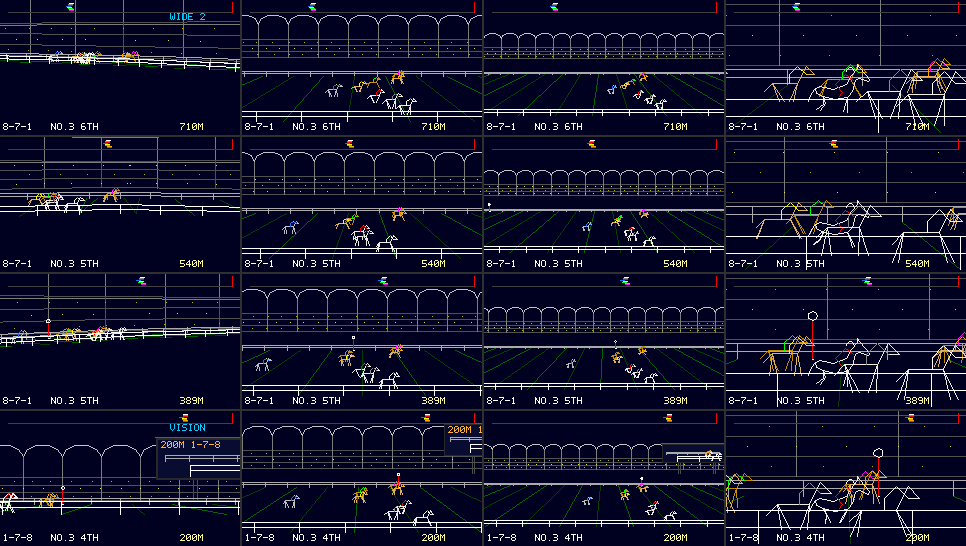
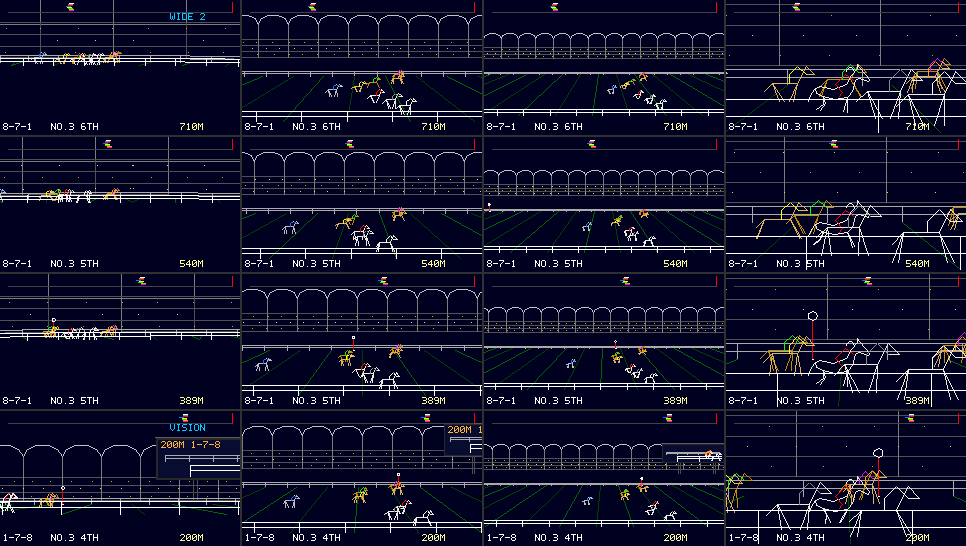
perf(derby): q24 stage 4b/c/d/e - the oval's panning series cheaper, measured, documented
The oval's bend from a panning unit ran at 8.9 fps (e574c73). In the JS,
by the device's own figures (sin 18.7 us, pose 178 us, a ser() body
~1.2-1.5 ms):
- pose() reads its section's start (x, z, tangent) from the table: no
  trig on a straight, two on the bend (178 -> 135 us); the straight
  course returns [g, w, 1, 0] at once (26 us).
- ser() reuses the shared chord end's pose and inlines pj; pan() puts
  each chord end into the unit's frame once a frame (VE) and ou() drops,
  by arithmetic only, the chords a series cannot see before any pose:
  ser() bodies on the bend 52 -> 21.5 a frame, poses 144 -> 43 (host).
- On the oval WIDE 2 stands near the bend's centre (CAMS rows' 6th
  element, about 110 m in from the rail): its f grows to ~700 and fewer
  chords are in view. The straight's units are unchanged.
- A straight skips VE and ou(). VE/VC are dropped after the frame.

Device MID (diag, one run each, d587bec -> this): panning WIDE on the
straight 25.6/25.7 -> 24.8/24.9 fps, on the oval's bend 15.1 fps, its
home-straight unit 19.1; HEAVY 24.7/24.8 -> 24.0, bend 15.0-15.1. gu max
134,392 -> 138,560 B (MID), 138,676 (HEAVY); mn 29,060, gate turn 31,836;
eval margin 27,930 -> 22,788 / 22,710 B. No LOADSTALL or failures;
playthrough, R replay (straight), demo, Back/LOADED, KEYTEST; smoke 20,
stress, resume, MEGADEMO, LCD CATCH, BIG WAVE all pass. Host: ASan and
m32 under the seeds' mix, --course straight (d587bec line for line,
[…]

Changed region(s): [[0.0, 0.2491, 0.2484, 0.4048], [0.0, 0.5293, 0.2484, 0.6538], [0.0, 0.0311, 0.2484, 0.1245]]

diff --git a/apps/derby/derby_view.js b/apps/derby/derby_view.js
@@ -84,25 +84,26 @@ try {
 // The screen (README "Turf vision"): centre x, depth, half width, bottom
 // and top height (m), a 4:1 face.
 const VS = [840, 34, 20, 6, 16], FN = [3, 4, 6], LO = [3, -25, -30, 1, 1, 4, -30, -2, -26, 12, 12, 8];
-// The course: [start x, z, heading], then sections [m, curvature 1/m] along
-// the inner rail. pose(g, w): the point g m along it, w m out from the side
-// cameras' line (the side view's depth: inner rail 11, screen 34, stands
-// 40), as [x, z, tangent]. The straight gives [g, w, 1, 0] exactly. The oval
-// (README "楕円"): the back straight, a 120 m bend to the right, the home
-// straight on the straight's line from 650 m. CH: chord ends (ser()).
-const OB = 650 - 120 * PI, SC = [[0, 0, 0], [2e3, 0]], OC = [[650 + OB, -218, PI], [OB, 0], [120 * PI, -1 / 120], [2e3, 0]];
-let CRS = SC, CH, VC;
+// The course: its sections [m along the inner rail, curvature 1/m, start x,
+// z, tangent x, z (, heading on a bend)]. pose(g, w): the point g m along it,
+// w m out from the side cameras' line (the side view's depth: inner rail 11,
+// screen 34, stands 40), as [x, z, tangent]; a bend's centre is 1/curvature
+// in from the rail. The straight gives [g, w, 1, 0] exactly. The oval (README
+// "楕円"): the back straight, a 120 m bend to the right, the home straight on
+// the straight's line from 650 m. CH: chord ends (ser()).
+const OB = 650 - 120 * PI, SC = [], OC = [[OB, 0, 650 + OB, -218, -1, 0], [120 * PI, -1 / 120, 650, -218, -1, 0, PI], [2e3, 0, 650, 0, 1, 0]];
+let CRS = SC, CH, VC, VE;
 function pose(g, w) {
-  let x = CRS[0][0], z = CRS[0][1], a = CRS[0][2];
-  for (let i = 1; i < CRS.length; ++i) {
-    const e = CRS[i], s = mn(g, e[0]), b = a + e[1] * s, r = 1 / e[1] + DNR;
-    if (e[1]) x += (sin(b) - sin(a)) * r, z -= (M.cos(b) - M.cos(a)) * r;
-    else x += s * M.cos(a), z += s * sin(a);
-    a = b; g -= s;
-    if (g <= 0) break;
+  if (CRS === SC) return [g, w, 1, 0];
+  let i = 0;
+  while (i < 2 && g > CRS[i][0]) g -= CRS[i++][0];
+  const e = CRS[i];
+  let x = e[2], z = e[3], c = e[4], d = e[5];
+  if (e[1]) {
+    const r = 1 / e[1] + DNR, C = M.cos(e[6] + e[1] * g), S = sin(e[6] + e[1] * g);
+    x += (S - d) * r; z -= (C - c) * r; c = C; d = S; g = 0;
   }
-  x += g * M.cos(a); z += g * sin(a);
-  return [x - w * sin(a), z + w * M.cos(a), M.cos(a), sin(a)];
+  return [x + g * c - w * d, z + g * d + w * c, c, d];
 }
 // ---- Cameras, a row a unit: [f, height, horizon y, lead, smoothed, lo,
 // hi]. A side unit looks along the course's normal from cx: the leader
@@ -112,9 +113,10 @@ function pose(g, w) {
 // screen); HEAD ON is a still (paint).
 const CAMS = [[100, 9.7, 33, 880, 1, -1e9, 1e9], 0, [58, 15, 36, 880, 1, -1e9, 1e9], [170, 7, 22, 640, 0, -1e9, D - 6],
   [300, 4, 30, 880, 0, D, D], [130, 1.6, 84, 880, 1, VS[0] - 30, VS[0] + 30], 0,
-  [200, 6, 28, 100, -14], [200, 6, 28, 460, -14], [200, 6, 28, 820, -14]],
+  [200, 6, 28, 100, -14, -14], [200, 6, 28, 460, -14, -100], [200, 6, 28, 820, -14, -14]],
   NAMES = ['WIDE', 'CLOSE', 'FIELD', 'FINISH', '', 'VISION', 'HEAD ON', 'WIDE 1', 'WIDE 2', 'WIDE 3'];
-// Panning units (rows 7..9, [least f, height, horizon y, g, w]; README):
+// Panning units (rows 7..9, [least f, height, horizon y, g, w, w on the
+// oval: WIDE 2 near its bend's centre]; README):
 // turned to the leader, f keeping it PAN[1] px long, at most PAN[2]. WIDE
 // takes the nearest when it is over PAN[0] m from the leader, or the leader
 // is on the oval's bend (the side view does not bend: README). Height 6 and
@@ -126,7 +128,7 @@ let pc = null, vq = null, Lo, Hi;
 function wide(g) {
   let m = 0, e = 1e9;
   for (let i = 7; i < 10; ++i) {
-    const q = pose(CAMS[i][3], CAMS[i][4]), a = pose(g, (DNR + DFR) / 2), x = a[0] - q[0], z = a[1] - q[1];
+    const q = pose(CAMS[i][3], CAMS[i][CRS === OC ? 5 : 4]), a = pose(g, (DNR + DFR) / 2), x = a[0] - q[0], z = a[1] - q[1];
     if (x * x + z * z < e) e = x * x + z * z, m = i;
   }
   return e > PAN[0] * PAN[0] || CRS === OC && g > OB && g < 650 ? m : 0;
@@ -141,7 +143,7 @@ function shot(m, xs, l, cut) {
   }
   const c = CAMS[m];
   if (m > 6) {
-    const q = pose(c[3], c[4]), a = pose(mx.apply(null, xs), (DNR + DFR) / 2), x = a[0] - q[0], z = a[1] - q[1], e = M.sqrt(x * x + z * z);
+    const q = pose(c[3], c[CRS === OC ? 5 : 4]), a = pose(mx.apply(null, xs), (DNR + DFR) / 2), x = a[0] - q[0], z = a[1] - q[1], e = M.sqrt(x * x + z * z);
     pc = [q[0], q[1], x / e, z / e, mn(PAN[2], mx(c[0], PAN[1] * e / 2.4)), e];
     return [pc[4], c[1], c[2]];
   }

diff --git a/apps/derby/derby_pan.js b/apps/derby/derby_pan.js
@@ -22,10 +22,13 @@ function lim(c0, c1) { if (c1 > 0) Lo = mx(Lo, -c0 / c1); else if (c1 < 0) Hi = 
 // the chord's normal. The stands (b < 0): their tiers chord by chord, hl's
 // lines across the chord's view from the ground up, 2.4 m apart.
 function ser(n, w, s, g0, L, zf, a, b) {
-  ch: for (let j = 0; j < VC.length; j += 2) {
-    const ga = g0 + rnd((VC[j] - g0) / s) * s, gb = g0 + rnd((VC[j + 1] - g0) / s) * s, A = pose(ga, w), B = pose(gb, w),
-      dx = (B[0] - A[0]) / (gb - ga), dz = (B[1] - A[1]) / (gb - ga),
-      q = pj([A[0] + (g0 - ga) * dx, A[1] + (g0 - ga) * dz]), u = (dx * pc[2] + dz * pc[3]) / pc[4], v = dx * pc[3] - dz * pc[2] + 120 * u;
+  let P, pg;
+  for (let i = 0; i < VC.length; ++i) {
+    const j = VC[i];
+    if (VE && ou(j, w, s, zf)) continue;
+    const ga = g0 + rnd((CH[j] - g0) / s) * s, gb = g0 + rnd((CH[j + 1] - g0) / s) * s, A = ga === pg ? P : pose(ga, w), B = P = pose(pg = gb, w),
+      dx = (B[0] - A[0]) / (gb - ga), dz = (B[1] - A[1]) / (gb - ga), X = A[0] + (g0 - ga) * dx - pc[0], Y = A[1] + (g0 - ga) * dz - pc[1],
+      Q = (X * pc[2] + Y * pc[3]) / pc[4], q = [X * pc[3] - Y * pc[2] + 120 * Q, Q], u = (dx * pc[2] + dz * pc[3]) / pc[4], v = dx * pc[3] - dz * pc[2] + 120 * u;
     Lo = ga - g0; Hi = gb - g0;
     lim(q[1] - .02, u); lim(zf / pc[4] - q[1], -u); lim(q[0] + 40 * q[1], v + 40 * u); lim(280 * q[1] - q[0], 280 * u - v);
     if (!(Lo < Hi)) continue;
@@ -54,6 +57,14 @@ function ser(n, w, s, g0, L, zf, a, b) {
     }
   }
 }
+// Chord j (VC, VE) at depth w wholly out of view, by m m at least: both
+// ends behind the near or past the far depth, or left or right of the view.
+function ou(j, w, m, zf) {
+  const a = 4 * j, f = pc[4], k = m * M.sqrt(f * f + 25600), l = VE[a] + w * VE[a + 2], d = VE[a + 1] + w * VE[a + 3],
+    L = VE[a + 4] + w * VE[a + 6], D = VE[a + 5] + w * VE[a + 7];
+  return d < .02 * f - m && D < .02 * f - m || d > zf + m && D > zf + m || 160 * d + l * f < -k && 160 * D + L * f < -k ||
+    160 * d - l * f < -k && 160 * D - L * f < -k;
+}
 function inr(q, U, V, e) {
   const z = q[1] + e * U, x = (q[0] + e * V) / z;
   return z > .02 && x > -400 && x < 640;
@@ -61,14 +72,18 @@ function inr(q, U, V, e) {
 // One frame from pc: stands (pillars, roof, tiers), crowd, the screen, far
 // rail, turf, poles, runners, near rail. Nothing deeper than 75 m past the
 // leader (150 at LIGHT); posts 4 px apart at least (8 with the screen in view).
-// VC: the chords near the view (their middle at 25 m out within the view
-// widened by their size); a straight's whole section is one.
+// VE: each chord end (CH) from pc, [across, along the view] at w 0 and per m
+// of w; VC: the chords whose band (w 11..40) may be in view (ou()). The
+// straight is one chord, always in view.
 function pan(xs) {
   const k = KN[tier], zf = pc[5] + (tier ? 75 : 150), L = vr ? 8 : 4;
-  VC = [];
-  for (let j = 1; j < CH.length; ++j) {
-    const a = CH[j - 1], b = CH[j], m = pose((a + b) / 2, 25), x = m[0] - pc[0], z = m[1] - pc[1], Z = x * pc[2] + z * pc[3], r = (b - a) * .6 + 20;
-    if (b - a > 1e3 || Z > -r && Z < zf + r && M.abs(x * pc[3] - z * pc[2]) < (Z + r) * 160 / pc[4] + r) VC.push(a, b);
+  VE = CRS === OC && []; VC = VE ? [] : [0];
+  if (VE) {
+    for (const g of CH) {
+      const m = pose(g, 0), x = m[0] - pc[0], z = m[1] - pc[1];
+      VE.push(x * pc[3] - z * pc[2], x * pc[2] + z * pc[3], -m[3] * pc[3] - m[2] * pc[2], m[2] * pc[3] - m[3] * pc[2]);
+    }
+    for (let j = 1; j < CH.length; ++j) if (!ou(j - 1, 25.5, 30, zf)) VC.push(j - 1);
   }
   ser('prail', 40, 12, 0, L, zf, 31727, -7.5);
   ser('pk', 40, 12 / k[2], 0, 0, zf, 0, 46496 + 12650 * ((t >> 3 ^ t) & 1));
@@ -91,4 +106,5 @@ function pan(xs) {
     if (p[1] > .02 && X > -160 && X < 400) rin(l, X, r * U, 28 + 6 * r, ph[l]);
   }
   ser('prail', DNR, k[4], 0, L, zf, 0xffff, 4.9);
+  VE = VC = 0;
 }

diff --git a/docs/apps/derby-pan-memory.md b/docs/apps/derby-pan-memory.md
@@ -352,6 +352,113 @@ MID の台本で、首振りの最初のショットの 10 フレーム目を近
 - 実機の値は各 1 回（MID 6 レース、HEAVY 4 レース）。HEAVY の手順が §10 と違う（別の起動）。
 - 横見の WIDE の −0.8〜0.9 fps（基準 → 枝）が image の違い（命令キャッシュ）か段階 3 の JS の分かは切り分けていない。
 - 楕円の見込み（弦に分ける形、台の配置）はコードの読みからの推定で、試していない。
+## 12. 楕円（q24 段階 4、ブランチ `vm/oval`、2026-10-01）
+
+**結論: 楕円コースを入れ、(a)(b)(c)(d)(f) は満たした。首振り WIDE は、直線で 24.8〜24.9 fps（MID）、楕円の曲線区間で 15.1 fps、楕円のホームストレート側で 18.5〜20.1 fps。** 最初の版（e574c73）は曲線区間の首振りが 8.9 fps だったので、JS の費用を削った（リードの判断で案 2）。fps は条件にしない（q24）。ゲストの最大は基準より +4.2 KB で、140,000 B まで残り約 1.4 KB。
+
+### 入れたもの
+
+- **4a（e16a2fd）**: コースはレースの種から決める（`field()`。補正の 8 回の後に、別の乱数列 `seed + 0x2545f491` から 9 回目を引く。楕円の確率は `OV[0]` = 1/2）。曲線の補正は中（`a` 0.25%、`s` 2%）、楕円のオッズは (c)（温度 .92、枠 .15、係数 .787）。直線では、乗数とオッズの項が恒等（×1、+0）になる。パドックの 1 行目は `1000M OVAL` / `1000M STRAIGHT`（既存の text、ref は増えない）。
+- **4b（e574c73 と最終のコミット）**:
+  - `pose()` は区間の表（`[長さ, 曲率, 始点 x, z, 接線, (曲線の始まりの向き)]`）を持つ。内柵の半径は 120 m で、650 m からは直線と同じ線になる。直線は表を通らない近道（`[g, w, 1, 0]`）で、三角関数を使わない。曲線の点は三角関数 2 回。
+  - 首振りの列（`ser()`）は、弦ごとに描く。曲線は `PAN[3]` = 16 本。
+    - 弦の端は列ごとの格子に丸める。隣の弦と柱の位置で接するので、継ぎ目に余分な線が出ない。
+    - 弦の端は 1 フレームに 1 回だけカメラ座標にする（`VE`）。列ごとの視野の判定（`ou()`）は算術だけで先に行い、視野に入らない弦の本体を回さない。
+  - 芝の縞の奥の点は、弦の法線から取る。スタンドの段（`hl`）は弦ごとに描く。
+  - 首振りのコードは別チャンク `pan`（`derby_pan.js`）にした。
+- **カメラ**:
+  - 曲線区間の WIDE は、常に一番近い首振り台にする。FIELD は向こう正面だけにした（`L < OB`）。
+  - 楕円では、WIDE 2 の台を曲線の中心近く（内柵から約 110 m 内側、`CAMS` の行の 6 番目の要素）に置く。台が遠くなるので f が長くなり、視野に入る弦の数が減る。直線の台の表は変えていない。
+  - **横見のカメラは曲げない**。曲線区間では、柵に沿って展開した直線として映る（リードの判断。曲がって見えるのは首振りが受け持つ）。
+
+### 増分（host m32、評価後 / 評価のピーク / GC 後の最大）
+
+| 段階 | 評価後 | 評価のピーク | GC 後の最大 |
+| --- | ---: | ---: | ---: |
+| 基準 d587bec | 111,808 | 126,548 | 137,344 |
+| 4a（e16a2fd） | +828 | +728 | +916〜1,940 |
+| 4b の最初（チャンク分割の前） | +4,204 | **+8,516** | +4,640 |
+| 4b（e574c73、`pan` チャンクと `hl` の畳み込み） | +3,812 | +3,760 | +4,092 |
+| 最終（JS の費用削減の後） | **+4,788** | **+4,736** | **+4,928**（楕円だけの構成は +5,060） |
+
+- plan の数（同時 30/32）と命令数（`prail` 49・`pt` 59・`pk` 56・`hl` 27）は変えていない。
+- scene チャンクにそのまま足すと、そのチャンクのコンパイルのピークが +5.9 KB 跳ねた（`DERBY_COMPILE_ONLY` で、チャンクごとに測った）。首振りを別チャンクにして −4.8 KB。
+- 行番号表を落とす（`CONFIG_POCKET_VM_STRIP_DEBUG`）は使っていない（保留のまま）。
+
+### 曲線の fps を上げた手順（実機 MID、各 1 回、診断 image）
+
+| 版 | 曲線の首振り（WIDE 2） | 楕円の WIDE 3 | 直線の首振り（WIDE 2・3） |
+| --- | ---: | ---: | ---: |
+| 基準 d587bec | — | — | 25.6・25.7 |
+| e574c73 | 8.9 fps（JS 93 ms） | 12.6 | 22.6・22.8 |
+| pose の近道・三角関数の削減・弦の端の pose の使い回し・pj の展開 | 11.2（70 ms） | 17.9 | 24.8・24.8 |
+| 弦の端のカメラ座標と、列ごとの視野の判定（`ou()`） | 12.6（60 ms） | 14.2 | 23.9・24.0 |
+| 同、弦 10 本（比較のため。採らない） | 12.6（61 ms） | 15.3 | 23.9・24.0 |
+| pose を区間の始点から（曲線の三角関数 2 回） | 13.2（57 ms） | 20.4 | 23.6・23.7 |
+| WIDE 2 の台を曲線の中心近くに | 15.1（47 ms） | 18.9 | 23.8・23.9 |
+| 直線は弦の判定を飛ばす（最終） | **15.1（47.8 ms）** | **19.1** | **24.8・24.9** |
+
+- **実機の内訳**（計時を入れた一時ビルド、楕円の首振り 1 フレーム）:
+  - pose を区間の始点から計算する前: VE 6.2 ms、`ser` 31〜39 ms、走者 6.3 ms、距離標 1.5 ms。直線の首振りは `ser` 8.9 ms、走者 4.4 ms。
+  - pose 1 回の費用: e574c73 の形（三角関数が最大 10 回）が 178 µs、区間の始点から計算する形が 135 µs、直線の近道が 26 µs。`Math.sin` 1 回は 18.7 µs（倍精度は soft-float）。
+  - `ser` の本体は 1 回約 1.2〜1.5 ms で、直線と曲線でほぼ同じ。曲線では、本体の回数（1 フレーム 26〜31 回、そのうち視野内 21〜25 回）が効いていた。
+- **host の回数**（MID の台本、楕円の曲線区間、1 フレームの平均）:
+  - e574c73（HEAVY）: `ser` の本体約 52 回（視野内 21.5）、pose 144 回。
+  - 最終: 本体 21.5 回（視野内 19.1）、pose 43 回。
+  - 直線の首振り: 本体 6 回、pose 20 回。
+- 弦の本数は、実機の時間にほとんど効かなかった（16 本と 10 本で 12.6 fps と 12.6 fps）。見た目への効きは大きい。f 約 700 の台から見た弦の中ほどのずれは、スタンドで 16 本 4 px、10 本 11 px（計算）。16 本のままにした。
+- host の 1 フレームの JS 時間の比（曲線 / 直線）は 1.9 倍だったが、e574c73 の実機では 3.7 倍に開いた。host は倍精度が速く、pose の三角関数がほぼ費用にならないため。**このアプリの JS の費用は、host の比で見積もれない。**
+
+### 実機（COM3、各 1 回、同じ日・同じ手順、行番号表 OFF）
+
+診断 image で、書き込みの約 6 秒後に DERBY を開き、デモで MID 420 秒。HEAVY は書き込み直後のパドックで tab を押して 300 秒（2 回）。コースは種で決まるので、レースごとに直線と楕円が混ざる（MID は 420 秒で 5 本、うち楕円 3 本。HEAVY は 4 本中 4 本・3 本）。
+
+| 条件 | 基準 d587bec | 楕円（最終） |
+| --- | ---: | ---: |
+| (a) `LOADSTALL`・`FRAMEFAIL`・`LOADFAIL`・`DEMOFAIL`・OOM | なし | なし |
+| (b) ターン内の最小（`mn`）MID / HEAVY | 34,144 / 33,516 | **29,060 / 29,072〜29,352** |
+| 　ゲートのターンの最小 MID / HEAVY | 36,140 / 35,628 | 31,836 / 31,744〜31,792 |
+| (c) 評価の余裕（heapprobe、2 回） | 27,930 | **22,788 / 22,710** |
+| (d) レース中のゲストの最大（`gu`）MID / HEAVY | 134,392 / 134,512 | **138,560 / 138,664〜138,676** |
+| (f) 1 レースごとのゲストの最大 MID（S 直線、O 楕円） | 133,660・134,264・134,392・134,308・134,360・134,380 | 137,708 S・138,344 S・138,440 O・138,452 O・138,560 O |
+| 首振り WIDE 2・3、直線 MID / HEAVY | 25.6・25.7 / 24.7・24.8 | 24.8・24.9 / 24.0・24.0 |
+| 首振り、楕円の曲線（WIDE 2）MID / HEAVY | — | **15.1 / 15.0〜15.1** |
+| 首振り、楕円の WIDE 3 MID / HEAVY | — | 19.1 / 18.5〜20.1 |
+| 横見 WIDE・FIELD・CLOSE・FINISH・HEAD ON・VISION MID（楕円の版: WIDE は直線のレース、他は楕円のレース） | 29.0・29.2・29.8・29.5・29.5・25.4（直線） | 29.9・29.4・29.4・29.8・30.2・25.6 |
+
+- 判定:
+  - (a) 可。
+  - (b) 可（ターン内 ≥ 11,208 B、ゲートのターン ≥ 23,552 B）。
+  - (c) 可（20 KB に対して 2.7 KB の余り）。
+  - (d) 可（140,000 B に対して約 1.3〜1.4 KB の余り）。
+  - (f) 可（1→2 レースで約 640 B 上がり、その後は ±220 B。楕円のレースは直線より約 100〜200 B 高い）。6 レース続けた回（直線の近道の 1 つ前の版、opt4）は 137,692 S・138,288 S・138,260 S・138,320 S・138,512 O・138,488 O で、増え続けない。
+- 一巡（診断 image、keytest）: 起動で `LOADED` → `1` でレース（直線）→ 写真 → 結果 → `R` の再生（`FINISH` の全桁が一致）→ `1` で次のパドック → 放置でデモ（楕円）→ キーで `DEMO END` → Back（`SAVE`）→ 起動し直して `LOADED`。KEYTEST（`r`）の起動と Back。**楕円のレースの R 再生は、実機では確かめていない**（host では楕円のデモ = 手で走らせたレース、が全桁一致）。
+- 回帰（通常 image）: `smoke_device.py --cycles 20`（`SMOKE_OK 20`）、`stress_app.py`（`STRESS_APP_PASS`）、`test_app_resume.py`（`TEST_APP_RESUME_OK`）、MEGADEMO（NEWS・TWIST・ZENITH・LIMIT）・LCD CATCH・BIG WAVE・DERBY の起動と Back。
+- 一巡で DERBY の保存が進んだ（`points=6270 race=16` → `points=6170 race=17`）。
+- 実機は最後に通常 image（d587bec）を書き戻し、`HOME_READY` を確かめた。設定は変えていない。
+
+### host（WSL、`run_derby.py`）
+
+- ASan と `--m32` を、種の混在・`--course straight`・`--course oval` の各条件で、全 16 回 PASS（計 6 構成）。
+- **直線は d587bec と全行一致**（着順・完走時刻・オッズ・結果・保存・**全画素ハッシュ**）。
+- 楕円は、R 再生とデモ（= 手で走らせた同じレース）が全桁一致。
+- Newton の誤差は最大 0.029 px。線分は最大 555/1,024。循環コレクタだけが解放したバイトは全場面で 0。
+- `tune_derby.mjs`:
+  - 直線: 2 万レースの出力が d587bec と全行一致。
+  - 楕円: 4 万レースで、枠 14.1〜11.0%、本命 40.4%、全群の期待値 0.784〜0.847、`ODDS_CHECK PASS`。
+- `derby_corner.mjs verify`（直線 = 出荷の step）と `app`（アプリの楕円 = 参照実装、4,000 種で全ステップ全桁）が PASS。
+- `tools/kasane_contract/run.sh`（`GAMES_M32=0`）は PASS。ただし `run_pocket_proc_rom_qjs.py` の `scalar: failed`（`invalid instruction entry`）が出る。**d587bec でも同じように出るので、今回の変更の前からある**（plan は変えていない。原因は調べていない）。
+- `check_equivalence.py` は `EQUIVALENCE PASS`・`JS REFERENCE PASS`。
+- 見た目: [derby-oval-preview.png](derby-oval-preview.png)。行は先頭 290 / 460 / 610 / 800 m、列は監督（曲線では首振り）・横見 WIDE（展開）・FIELD・CLOSE。見た目の評価はユーザーに任せる。
+
+### 確信の低い点
+
+- 実機の値は各 1 回（HEAVY は 2 回）。直線と楕円の本数は種で決まり、HEAVY の直線は 1 レースだけ。
+- 直線の首振りの −0.8 fps（MID、基準比）が、image の違い（命令キャッシュ）か JS の分かは切り分けていない。
+- ゲストの最大の余りは約 1.4 KB しかない。楕円の追加の描写は、どこかを削らないと入らない。
+- 楕円のホームストレート側（WIDE 3）の fps は、レースによって 18.5〜20.1 で揺れる（曲線の弦が視野に入る量が、先頭の位置で変わる）。
+- 楕円のコースは、ホームストレートの先（1,073 m 以降）とスタートの手前（−150 m 以前）をまっすぐ延ばしている（2 つ目のコーナーは描かない）。首振りの奥の打ち切り（先頭の 75 m 先）の内側なので、レース中には映らない見込み（推定）。
+
 ## 4. 横見を首振りの系に統合する（段階 3b、ブランチの 2 つ目の wip コミット）
 
 ユーザーの提案「カメラの統合」。横見の台は「視線がコースの法線に沿う首振り」の特別な場合なので、`course()` を 1 つの投影（`pj()`・`ser()`）で全カメラを描く形にした。plan は高さと地平線を入力で受け（x と z を h·f で割って渡す。1 本目の 1/Z~ は 1 から Newton 20 回）、横見専用の `rail`・`turf`・`stands`・`crowd` の plan を消した。観客は今の見た目のまま（`T.crowd` と同じ sin の散らし・2 色・瞬き。12 m の区画ごとに Newton 3 回、64 命令）。スタンドの屋根の弧は描けなくなった（まっすぐな屋根と中段の線。レジスタが足りず `CUBIC` の 8 本を空けられない）。

diff --git a/apps/derby/README.md b/apps/derby/README.md
@@ -1,6 +1,6 @@
 # DERBY WATCH（`apps/derby/derby_watch.js` と `chunks.txt` のチャンク）
 
-観戦が主体の競馬ゲーム。夜の 1000 m 直線コース（ナイター）を、手続き描画（`pocket.kasane.procedural`）の線分だけの疑似 3D で見せる。遊びはレース前に1頭を選んで賭け、レース中はカメラを切り替えるだけ。設計・実測・上限の使用率・実機で確かめる項目は [docs/apps/derby-watch.md](../../docs/apps/derby-watch.md)。このファイルはコードの隣に置く「なぜ」のメモ（ソースのコメントはゲストのヒープを食うので短くしてある）。
+観戦が主体の競馬ゲーム。夜の 1000 m のコース（直線か楕円、レースごとに種で決まる。下の「楕円」。ナイター）を、手続き描画（`pocket.kasane.procedural`）の線分だけの疑似 3D で見せる。遊びはレース前に1頭を選んで賭け、レース中はカメラを切り替えるだけ。設計・実測・上限の使用率・実機で確かめる項目は [docs/apps/derby-watch.md](../../docs/apps/derby-watch.md)。このファイルはコードの隣に置く「なぜ」のメモ（ソースのコメントはゲストのヒープを食うので短くしてある）。
 
 ## キー
 
@@ -22,7 +22,7 @@
 ## なぜ馬で、なぜ直線か
 
 - **馬にした。** 線だけの 240×135 でも、脚4本・首・騎手の勝負服で「走っている生き物」と「どの馬か」が同時に読める。犬（グレイハウンド）は背が低く、同じ画面では脚と胴が数ピクセルにつぶれる。写真判定とオッズ（単勝）も競馬の方が見慣れている。
-- **1000 m の直線（千直）にした。** 横から追うカメラ（コースと平行）なら、奥行きごとの変換が「拡大＋平行移動」になり、VM の ADD の繰り返しだけで柵の支柱・観客席・芝の刈り目を描ける（割り算が要らない）。コースと直交する線（刈り目・ゲート・決勝線）は消失点 (120, 地平線) に集まるので、疑似 3D の「消失点へ向かう線」は刈り目が担う。コーナーのある周回コースは透視の割り算が点ごとに要り、VM では描けない。
+- **1000 m の直線（千直）にした。** 横から追うカメラ（コースと平行）なら、奥行きごとの変換が「拡大＋平行移動」になり、VM の ADD の繰り返しだけで柵の支柱・観客席・芝の刈り目を描ける（割り算が要らない）。コースと直交する線（刈り目・ゲート・決勝線）は消失点 (120, 地平線) に集まるので、疑似 3D の「消失点へ向かう線」は刈り目が担う。コーナーのある周回コースは透視の割り算が点ごとに要り、VM では描けない（当時の判断。後に首振りカメラが VM の Newton 法で逆数を出すようになり、楕円は首振りの側で描いた。下の「首振りカメラ」「楕円」）。
 - **ナイターにした。** 塗りつぶしが無いので背景は1色（`beginFrame` の色）。空と芝を塗り分けられないなら、暗い背景に明るい線（照明に浮かぶコース）の方が線画として成り立つ。
 
 実在の馬名・競馬場・団体は使っていない。馬名はポケットコンピュータにちなむ造語（BIT DASH、HEX HOOF…）。勝負服の色は枠番ごとの8色（白・灰・赤・青・黄・緑・橙・桃）で、特定の団体の配色ではない。
@@ -60,6 +60,7 @@
 
 パドックに入ったとき、能力値から各馬の強さ `exp(17.2·top + 2.6·st − 2.3·re + 0.5·(acc + [差し]))` を出して 8 頭で正規化し（Luce モデル）、勝率 p に控除 20% を掛けてオッズ `0.8/p·(1 + 0.0015/p)`（0.1 刻み、1.1〜999）にする。重みは `node tools/games/tune_derby.mjs` の条件付きロジットの最尤推定を丸めた値。後ろの `(1 + 0.0015/p)` は大穴の裾の補正（弱い馬の実際の勝率は Luce の予測より低い）。結果、賭けの期待値はどの勝率の区間・人気順でも 0.75〜0.86（8 万レース、docs の「オッズの較正」）。
 
+- **楕円では**、強さを `0.92·(直線の強さ) + 0.15·(3.5 − i)/3.5`（i は枠、内ほど強い）にし、オッズの係数を 7.87（直線は 8）にする。賭ける側に見える情報（能力値・コースの種類・枠）だけから作り、カーブで馬ごとに引く乱数は入れない。値は `tools/games/derby_corner.mjs public` の推定（docs/apps/derby-corner-model.md）。`tune_derby.mjs --course=oval` で、各群の期待値が 0.784〜0.847（4 万レース）。
 - **以前は**、乱数を切った同じモデルを 9 フレームかけて走らせ、完走時間 T の softmax（`TAU = 0.23`）にしていた。後半の競り合いの項が乱数なしの走りでは全員を先頭へ寄せるので T が能力差を潰し、1 番人気の期待値が 1.18（本命を買い続けるのが最適）、3〜4 番人気が 0.61 だった。T のどんな単調な写像でも人気順ごとには直らないので、T をやめた（9 フレームの計算も無くなった）。
 - **末脚 `kick` は入れていない。** 他の能力値を入れると重みがほぼ 0 だった。
 - **上限を 999 にした。** 99.9 で止めると、それより弱い馬の期待値が上限で削られる。セルは 10 倍以上を整数で出すので 3 文字。
@@ -154,6 +155,26 @@ P = lambda x, lat, e: (round(120 + (lat - C0) * F / (XC - x)), round(HY + (H - e
 - **fps**: 首振り WIDE は 30 fps を割る（実機 MID 25.3〜25.5、HEAVY 24.6〜25.0 fps。JS のターン 20〜22 ms、横見の WIDE は 15.9 ms）。レースの絵の約 4 分の 1 が首振り。ユーザーの決定（q24）で、楕円コースまで入れてから fps の影響を見る（docs の derby-pan-memory.md §10・§11）。
 - **host の検査**: 首振りのフレームの全点を倍精度の厳密な投影と比べる（誤差 0.1 px 未満、実測の最大 0.075 px）。`DERBY_PAN=1e9` で首振りを止めると、横見の画素は首振りを入れる前と全構成で同じ。
 
+## 楕円（q24 段階 4、2026-10-01）
+
+レースごとに、直線（千直）か楕円かを種で決める。パドックの 1 行目に `1000M OVAL` / `1000M STRAIGHT` と出る（既存の text。view の ref は増やしていない）。
+
+- **コース**: 内柵 1,600 m の楕円。直線 423 m、内柵で半径 120 m の右回りのコーナー。レース 1,000 m は、向こう正面（0〜273 m）→ コーナー（273〜650 m）→ ホームストレート（650〜1,000 m。ゴールは直線の 350 m 地点）。ホームストレートは直線のコースと同じ線の上にあるので、大型画面・決勝線・HEAD ON・写真判定・FINISH・VISION はそのまま使える。コースの先（1,073 m 以降）と手前（−150 m 以前）はまっすぐ延ばしていて、2 つ目のコーナーは描かない。
+- **選び方**: `field(seed)` が、補正の 8 回の後、同じ別の乱数列（`seed + 0x2545f491`）の 9 回目で選ぶ。楕円の確率は `OV[0]` = 1/2。レースとオッズの乱数列は変えていないので、直線のレースは楕円を入れる前と全桁一致する。R の再生とデモは種が同じなので、同じコースになる。
+- **カーブの補正**: 自分の x が 273〜650 m の間だけ、1 ステップの前進に `(1 + a·(3.5 − i)/3.5)·(1 + s·(2u − 1))` を掛ける（`a` 0.25%、`s` 2%、i は枠、u は上の乱数列）。速さ・脚の回転・体力には掛けない（docs/apps/derby-corner-model.md）。結果（host 4 万レース）: 枠の勝率は内 14.1% から外 11.0%、本命 40.4%。
+- **描画**:
+  - `pose(g, w)` が区間の表でコーナーを通る。柵・スタンド・観客・刈り目・距離標・走者・大型画面は、首振りではすべて `pose` を通る。
+  - 首振りの列（`ser()`）は、コーナーを 16 本の弦（`PAN[3]`）に分けて弦ごとに描く。弦の端は列ごとの格子に丸めるので、隣の弦とは柱の上で接する。
+  - 弦の端は 1 フレームに 1 回だけカメラ座標にする（`VE`）。列ごとに、視野に入らない弦は算術だけで飛ばす（`ou()`）。直線は弦 1 本で、この判定も通らない。
+- **カメラ**:
+  - コーナーの WIDE は、常に一番近い首振り台にする。FIELD は向こう正面だけ（監督の `L < OB`）。
+  - 楕円の WIDE 2 の台は、コーナーの中心近く（内柵から約 110 m 内側。`CAMS` の行の 6 番目の要素）に置く。先頭まで遠いので f が長く（約 700）、視野に入る弦が減る。直線の台は変えていない。
+  - **横見のカメラ（WIDE・FIELD・CLOSE）は曲げない**。コーナーでは、柵に沿って展開した直線として映る。各カメラの高さ・地平線でコーナーを描くには、首振りの plan（高さ 6 m・地平線 28 を焼いてある。入力 8 個は使い切り）が足りない。
+- **fps**（実機、2026-10-01）: 首振り WIDE は、直線で 24.8〜24.9 fps（MID）、楕円のコーナーで 15.1 fps、楕円のホームストレート側で 19.1 fps。横見のカメラは直線と同じ（約 29〜30 fps、VISION 25.6 fps）。
+  - コーナーの費用は弦の本体の回数（1 フレーム約 20 回、直線は 6 回）と pose の三角関数（実機の `Math.sin` は 1 回 18.7 µs）。
+  - 弦の本数を 16 → 10 にしても、実機の fps は変わらなかった。
+  - 詳細は docs/apps/derby-pan-memory.md §12。
+
 ## plan の登録（場面ごと、1 フレーム 1 本）
 
 | 場面 | 登録 | 解除 |
@@ -197,6 +218,7 @@ P = lambda x, lat, e: (round(120 + (lat - C0) * F / (XC - x)), round(HY + (H - e
 | `prog` | `derby_prog.js` | plan のプログラム（`T` の各 plan は `@plan` を付けた JS のメソッド。`@planDecoder rom` の印で、ビルドが 18 本を firmware の flash の表（`ksn_proc_rom_plans.c`、8.6 KB）にコンパイルし、このファイルからは plan と復号器を消して埋め込む。アプリは `H.register('derby.' + 名前, 引数, 点列)` で登録する。このファイルはそのままでは動かない。plan の前と中のコメントは出荷されない。docs/kasane/flash-plan.md）・大写しの馬の点列の元・HEAD ON の線画 | 入口の評価中 |
 | `view` | `derby_view.js` | plan の登録・音・状態・保存・カメラ・`course()` | 同 |
 | `scene` | `derby_scene.js` | `enter`・`build`・`hud`・`settle`・`paint` | 同 |
+| `pan` | `derby_pan.js` | 首振りの投影と列（`pj`・`lim`・`ser`・`ou`・`inr`・`pan`）。scene に入れるとそのチャンクのコンパイルのピークが +5.9 KB 跳ねたので分けた | 同 |
 | `play` | `derby_play.js` | `attract`・`globalThis.frame`（1 フレームの処理を関数に分けず、その中のラベル付きブロック `fr` に置く）・最初の `enter('pad')` | 同 |
 | `demo` | `derby_demo.js` | `demo()` と自動操縦（`pilot()`） | デモが初めて始まるとき（幕が黒になったフレーム） |
 
@@ -241,5 +263,7 @@ P = lambda x, lat, e: (round(120 + (lat - C0) * F / (XC - x)), round(HY + (H - e
 python3 tools/games/run_derby.py            # ASan/UBSan、MID の全台本（デモ 10 回を含む）＋デモ 3 レースを手で走らせた照合＋LIGHT/HEAVY の1レース＋監督だけ・8 番の CLOSE
 python3 tools/games/run_derby.py --m32      # 実機と同じ 8 B JSValue でゲスト heap を測る
 python3 tools/games/run_derby.py --ppm      # docs/apps/derby-watch-preview.png・derby-watch-demo-preview.png・derby-watch-vision-preview.png・derby-watch-dissolve-preview.png（デモの幕）を作り直す
-node tools/games/tune_derby.mjs 4000        # レースのモデルの Monte Carlo（Windows でも可）
+python3 tools/games/run_derby.py --course straight   # 全レースを直線に（host だけ。楕円は --course oval）
+node tools/games/tune_derby.mjs 4000        # レースのモデルの Monte Carlo（Windows でも可。--course=oval で楕円）
+node tools/games/derby_corner.mjs app 4000  # アプリの楕円の補正が参照実装と全桁一致するか
 ```

diff --git a/docs/README.md b/docs/README.md
@@ -151,9 +151,9 @@ ESP32-S3 の PIE（SIMD）と、このコアでのスカラーコードの最適
 | [opus-feasibility.md](apps/opus-feasibility.md) | 記録 | Opus 復号の実現性調査と、実装後の答え合わせ |
 | [lcd-catch.md](apps/lcd-catch.md) | 設計・記録 | LCD CATCH: 固定セグメントの液晶ゲーム。Kasane の ref 32・コマンド 80 に収める設計、host の台本再生、実機で調整する項目 |
 | [derby-watch.md](apps/derby-watch.md) | 設計・記録 | DERBY WATCH: 線画の疑似 3D で観る競馬、再現できるレースのモデル、起動ごとの種、較正したオッズ、場面ごとの plan、host の全画素検証、`pocket.app.load` のチャンクへの分割 |
-| [derby-corner-model.md](apps/derby-corner-model.md) | 試算 | DERBY WATCH の楕円コース案: カーブだけの内外差とばらつきの乗数、枠・本命・入れ替わりへの効き、楕円用のオッズの再推定（host の Monte Carlo） |
+| [derby-corner-model.md](apps/derby-corner-model.md) | 試算 | DERBY WATCH の楕円コース案: カーブだけの内外差とばらつきの乗数、枠・本命・入れ替わりへの効き、楕円用のオッズの再推定（host の Monte Carlo）、実装の結果（中・(c)、直線は全桁一致） |
 | [derby-pan-camera-cost.md](apps/derby-pan-camera-cost.md) | 記録 | DERBY WATCH の首振りカメラ・楕円コースの計算コスト: JS 演算と投影の単価（実機）、VM の Newton 逆数による投影、台数・自動ズーム・LOD 別のフレーム費用の見積もり（2026-09-30） |
-| [derby-pan-memory.md](apps/derby-pan-memory.md) | 記録 | DERBY WATCH の首振りカメラ（段階 3）が常駐させるゲストのヒープの内訳（関数・atom・plan の文字列）、事前コンパイルと行番号表の削除の効果の上限、規模を削る案と受け入れ条件との差（2026-09-30、host 実測）、flash の plan を載せた再挑戦で (e) の fps だけが不足（§10、2026-10-01 実機）、`vm/main` b184202 への追従とマージ前の再測定・楕円（段階 4）への引き継ぎ（§11） |
+| [derby-pan-memory.md](apps/derby-pan-memory.md) | 記録 | DERBY WATCH の首振りカメラ（段階 3）が常駐させるゲストのヒープの内訳（関数・atom・plan の文字列）、事前コンパイルと行番号表の削除の効果の上限、規模を削る案と受け入れ条件との差（2026-09-30、host 実測）、flash の plan を載せた再挑戦で (e) の fps だけが不足（§10、2026-10-01 実機）、`vm/main` b184202 への追従とマージ前の再測定・楕円（段階 4）への引き継ぎ（§11）、楕円（段階 4）の実装・増分・曲線の首振りの fps を上げた手順と実機の表（§12、2026-10-01） |
 | [big-wave.md](apps/big-wave.md) | 設計・記録 | BIG WAVE: 線分の疑似3Dで大波に乗るゲーム。世界固定の断面と 1/d の級数、host の台本とボット、全画素検証、負荷と上限の使用率、実機で詰める項目 |
 | [backlog.md](apps/backlog.md) | backlog | チュートリアルの見直し、オーバーレイの残り、日本語入力の残り |
 

diff --git a/docs/apps/derby-watch.md b/docs/apps/derby-watch.md
@@ -1239,3 +1239,22 @@ q24 の段階 3。WIDE を、コースの手前に立つ 3 台の首振りカメ
 - **fps**: 首振り WIDE は **30 fps を割る**（実機 MID 25.3〜25.5、HEAVY 24.6〜25.0 fps。JS のターン 20〜22 ms に対し横見の WIDE は 15.9 ms）。実機の MID 6 レースで、首振り WIDE はレースのフレームの約 27%。受け入れ条件（27 fps）には届かないが、ユーザーの決定（q24）で、楕円コースを入れて予定したコンテンツをそろえてから、fps がプレイフィールに与える影響を見る。横見のカメラの fps は首振りを入れる前と同じ水準（WIDE −0.8〜0.9 fps、他は ±0.6 fps 以内）。
 - **メモリ**（実機、基準 `vm/main` b184202 → 段階 3）: ターン内の最小 48.0 → 33.6 KB、評価の余裕 38.7〜38.9 → 27.9 KB、レース中のゲストの最大 120.1 → 134.6 KB、`LOADSTALL` なし。楕円への余りは、ゲストの最大 5.4 KB（140,000 B まで）、評価の余裕 7.9 KB（20 KB まで）、plan の枠 2 本。
 - **host**: `run_derby.py` の ASan と `--m32` で全 16 回 PASS（首振りの 3 回を含む）。着順・時計・種・デモ・R 再生・オッズは基準と全行一致、`DERBY_PAN=1e9` で首振りを止めると横見の画素は 8 構成すべてで基準と同じ。Newton の誤差は最大 0.075 px。
+
+## 楕円（q24 段階 4、2026-10-01、ブランチ `vm/oval`）
+
+レースごとに、直線か楕円（内柵 1,600 m、半径 120 m の右回りのコーナー、ホームストレートは直線のコースと同じ線）を種で決める（楕円の確率 1/2）。
+
+- **レースのモデル**: コーナー（自分の x が 273〜650 m）だけで、前進に枠の差（0.25%）とレースごとのばらつき（2%）の乗数を掛ける。乗数は別の乱数列から引くので、直線のレースは楕円を入れる前と全桁一致する。
+- **オッズ**: 公開情報（能力値・コースの種類・枠）だけから作る（温度 0.92、枠 0.15、係数 0.787）。
+- **描画**: 首振りカメラはコーナーを 16 本の弦で描き、楕円の WIDE 2 の台はコーナーの中心近くに置く。横見のカメラは曲げず、コーナーでは柵に沿って展開した直線として映す。
+- **実機**（MID、各 1 回）:
+
+  | 項目 | 楕円の版 | 基準 d587bec |
+  | --- | ---: | ---: |
+  | 首振り WIDE（直線） | 24.8〜24.9 fps | 25.6 fps |
+  | 首振り WIDE（楕円のコーナー） | 15.1 fps | — |
+  | 首振り WIDE（楕円のホームストレート側） | 19.1 fps | — |
+  | レース中のゲストの最大 | 138,560 B | 134,392 B |
+  | 評価の余裕 | 22.7〜22.8 KB | 27.9 KB |
+
+- 詳細・実機の表・fps を上げた手順は [derby-pan-memory.md](derby-pan-memory.md) §12、補正とオッズの試算は [derby-corner-model.md](derby-corner-model.md)、見た目は [derby-oval-preview.png](derby-oval-preview.png)（評価はユーザー）。

diff --git a/docs/apps/derby-corner-model.md b/docs/apps/derby-corner-model.md
@@ -2,6 +2,20 @@
 
 2026-09-30、ブランチ `vm/corner-sim`。**数値はすべて host（Node）の Monte Carlo の実測で、実機の値ではない。** 出荷コード（`apps/derby/`）は変えていない。試作は `tools/games/derby_corner.mjs`。
 
+## 実装の結果（2026-10-01、ブランチ `vm/oval`）
+
+ユーザーの決定どおり、補正は「中」（`a` 0.25%、`s` 2%）、オッズは (c)（温度 0.92、枠 0.15、係数 0.787）を `apps/derby/derby_watch.js` に入れた。
+
+- **コースの選び方**: `field(seed)` が、カーブの乱数列（`seed + 0x2545f491`）の 8 回の後、9 回目でコースを選ぶ（楕円の確率 `OV[0]` = 1/2）。カーブの乗数 `F.m` も同じところで作る。
+- **直線は出荷と全桁一致**:
+  - `derby_corner.mjs verify`（2,000 種、全ステップの x・v・e と tc）。
+  - `tune_derby.mjs` 2 万レースの出力が d587bec と全行一致。
+  - `run_derby.py --course straight` のログが d587bec と画素ハッシュまで全行一致。
+- **楕円は参照実装と全桁一致**: `derby_corner.mjs app`（4,000 種、アプリの `field().m` と `step()` を、この文書の試作の乗数と比べる）。
+- **楕円のオッズ**（`tune_derby.mjs 40000 --check --course=oval`、種は 1〜4 万）: 枠の勝率は 14.1・13.7・12.9・12.9・12.4・12.1・10.9・11.0%、本命の勝率 40.4%。期待値は勝率区間で 0.785〜0.829、人気順で 0.784〜0.847（8 番人気 0.847）、全体 0.806。`ODDS_CHECK PASS`（最大ずれ 0.047）。上の表の held-out（8 番人気 0.858）とほぼ同じ。
+- **ソースの増加**: 4a のゲストは、host m32 で評価後 +828 B、評価のピーク +728 B（上の推定 +270 B に、コースの選択と乗数の配列の分が乗った）。
+- 楕円の描画とカメラ、実機の値は [derby-pan-memory.md](derby-pan-memory.md) §12。
+
 ## 結論
 
 - **補正は「進み」の乗数にする**（`x += v·dt·m`）。目標速度 `g` に掛ける案は、先頭との差で引き戻す項と体力の消費に吸われて、同じ `a` でも枠の差が約 1/4 しか出ない（下の「採らなかった案」）。
